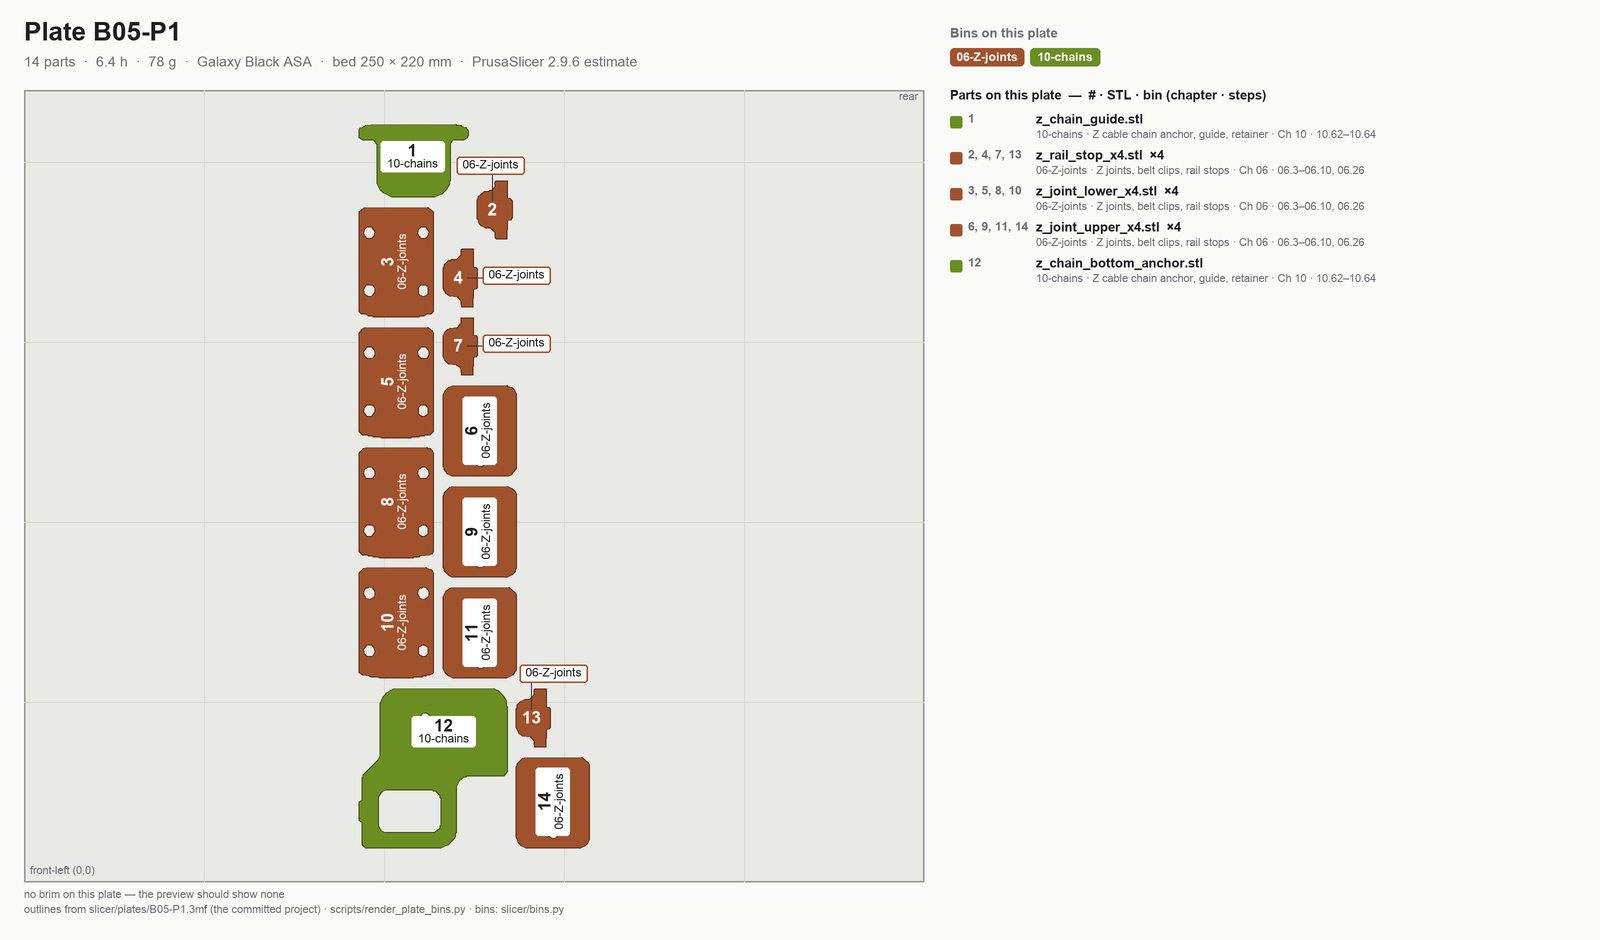
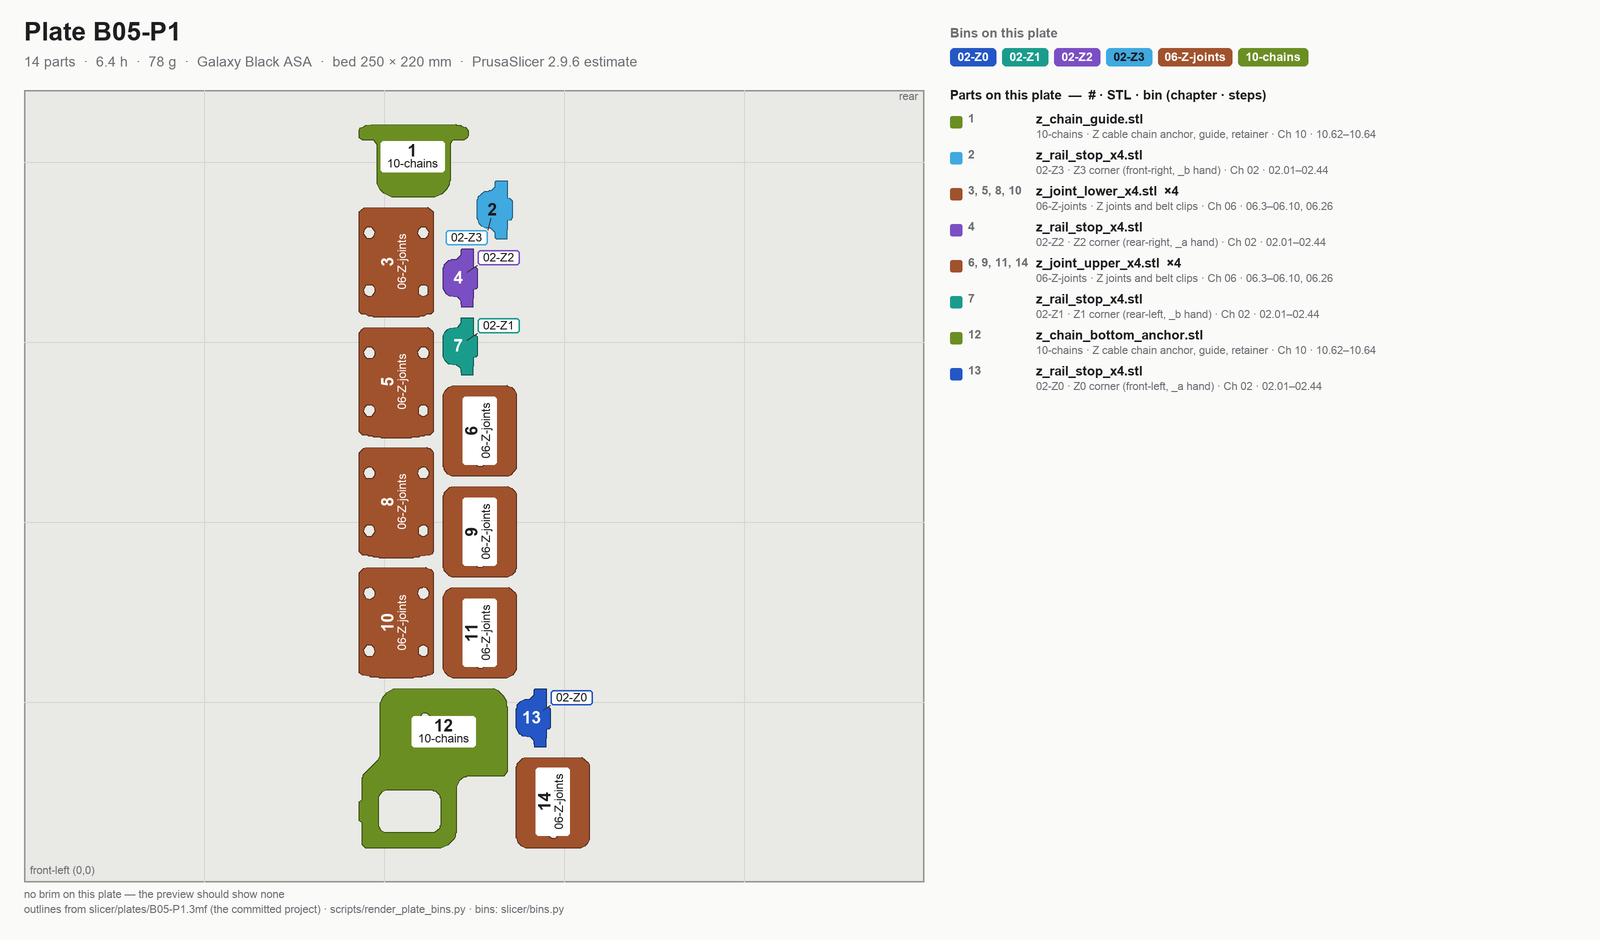
claude: rail stops sort into the four Z-corner bins; survey drops pulley_jig for the Z pulleys
z_rail_stop_x4 is fitted at 02.10, so one goes to each 02-Z corner bin (bins.py _ALL_Z) instead of
06-Z-joints; plate diagrams B02-P3/B05-P1, MANIFEST bin column, bin labels and the chapter/README/B05
tables regenerated or updated to match. Survey: Z pulleys are checked with a caliper at 33 mm;
pulley_jig gauges only the A/B motor pulleys.

Claude-Session: https://claude.ai/code/session_01WqzAPdcJW1PRJgg5HaHZHx

diff --git a/slicer/bins.py b/slicer/bins.py
@@ -37,7 +37,7 @@ BINS: dict[str, dict[str, str]] = {
     "04-A": dict(label="A drive unit + A (right) front idler", chapter="Ch 04", steps="04.1–04.24 (A idler 04.6–04.9, A drive 04.20–04.24)", colour="#2e8b57"),
     "04-B": dict(label="B drive unit + B (left) front idler", chapter="Ch 04", steps="04.1–04.33 (B idler 04.13–04.16, B drive 04.29–04.33)", colour="#8fbc4a"),
     "05-XY": dict(label="XY joints, cable bridge, endstop pod", chapter="Ch 05", steps="05.3, 05.25–05.38 (endstop pod fitted at 09.32–09.33)", colour="#c2185b"),
-    "06-Z-joints": dict(label="Z joints, belt clips, rail stops", chapter="Ch 06", steps="06.3–06.10, 06.26 (rail stops optional at 02.10)", colour="#a0522d"),
+    "06-Z-joints": dict(label="Z joints and belt clips", chapter="Ch 06", steps="06.3–06.10, 06.26", colour="#a0522d"),
     "07-X": dict(label="X carriage halves, probe bracket, cable cover", chapter="Ch 07", steps="07.6–07.39 (staged at 05.45; probe 07.35; cover 07.39)", colour="#cd853f"),
     "08-SB": dict(label="Stealthburner body, printhead, LEDs", chapter="Ch 08", steps="08.2–08.62 (printhead 08.28–08.30, LEDs 08.35–08.37, body 08.62)", colour="#d62839"),
     "08-CW2": dict(label="Clockwork 2 extruder + toolboard cover", chapter="Ch 08", steps="08.3–08.20 (cover 08.51)", colour="#f28482"),
@@ -134,7 +134,7 @@ ASSIGN: dict[str, str | list[str]] = {
     "z_joint_upper_x4.stl": "06-Z-joints",
     "z_chain_bottom_anchor.stl": "10-chains",
     "z_chain_guide.stl": "10-chains",
-    "z_rail_stop_x4.stl": "06-Z-joints",
+    "z_rail_stop_x4.stl": _ALL_Z,
     # B06
     "stealthburner_printhead_revo_voron_front.stl": "08-SB",
     "stealthburner_printhead_revo_voron_rear_cw2.stl": "08-SB",

diff --git a/docs/voron-build-instructions-survey.md b/docs/voron-build-instructions-survey.md
@@ -262,7 +262,7 @@ Pre-load or test-fit roll-in T-nuts — LDO warns extrusion/T-nut tolerances are
 4. **Heat-set inserts (153 of them) go in before assembly, not during.** A missed insert in an XY joint means a gantry teardown. Batch them per printed-part group, use the supplied brass tip with the tongue adjusted flush to the insert height, and practise on `STLs/Test_Prints/Heatset_Practice.stl` first.
 5. **Rails ship dry and must be cleaned and packed before installation** — the flip-and-pack method requires access to the back of the rail, i.e. *before* it goes on an extrusion. IPA soak 10 min, dry fully, pack NLGI 0/1 grease (Super Lube 21030) through a mounting hole until it oozes past the bearings, wipe the rail surface clean. Rail carriages slide off the ends easily and are ruined by a drop.
 6. **Use the second mounting hole from each end of every rail, never the end hole** (LDO note p.88). Also use the printed `MGN9_rail_guide_x2` / `MGN12_rail_guide_x2` jigs to centre rails on the extrusion.
-7. **Z pulleys: 16T on the Z motors, 20T elsewhere — they look nearly identical.** Threadlocker is pre-applied to the set screws; get orientation and stack height right the first time (`pulley_jig.stl`).
+7. **Z pulleys: 16T on the Z motors, 20T elsewhere — they look nearly identical.** Threadlocker is pre-applied to the set screws; get orientation and stack height right the first time (caliper at 33 mm on the Z shafts; `pulley_jig.stl` gauges only the A/B motor pulleys).
 8. **Mains wiring is the one step that can kill you.** Do LDO's *Checkpoint #1* with a multimeter, unplugged: continuity within each colour group, no continuity between L/N/PE, and confirm the PSU's 115/230 V selector **before** the first power-on. The SSR wiring is called out as *"critical — an incorrect connection can cause catastrophic damage"*; watch the numbered terminals and the yellow LED position.
 9. **Leviathan voltage-selection jumpers must be removed before installation** and only re-inserted after each attached component's voltage is verified. Mixing voltages on a shared 24 V supply "will permanently damage the controller and attached components."
 10. **Never unplug or re-plug a stepper with power on, and never hand-spin a connected stepper fast** — back-EMF kills drivers.
@@ -321,7 +321,7 @@ Reality check on the total: the low end (47.5 h) sits inside the community 40–
 | W9 | Rails installed before cleaning/greasing | Rails off again, or run them dry and wear them out | Rail prep is P00, explicitly before P02/P05 |
 | W10 | Rails mounted using the end holes (manual default) instead of the second holes | Rail off, re-position, re-align | LDO p.88 note is inlined at the step, not in an appendix |
 | W11 | Nevermore vs. stock exhaust decided after the back panel is sealed | Back panel off, different exhaust cover printed; 1 h + a reprint | Decide in P00 (it's Nevermore — the kit has no exhaust fan); print the matching exhaust cover in the same batch as the skirts |
-| W12 | Z-motor pulley set screws not threadlocked/seated before Z belting | Belt slip under load, re-belt all four; 1.5 h | Set-screw + `pulley_jig` verification step inside P02 |
+| W12 | Z-motor pulley set screws not threadlocked/seated before Z belting | Belt slip under load, re-belt all four; 1.5 h | Set-screw + caliper (33 mm) verification step inside P02 |
 | W13 | Wrong Klipper config loaded (Rev D vs Rev D+) at P12 | Mis-driven heater/probe/fans at P13; potentially a damaged component | P12 step 1: confirm the toolboard ID reads `stm32g0b1xx`; if it reads `rp2040` you have a V1 board and the *other* config |
 | W14 | `position_max` / QGL points left commented out for the 350 | Homing crashes into the frame at P13 | P12 config-edit checklist with the exact 350 values |
 
@@ -478,7 +478,7 @@ Each row is a chapter file. **Source** = what the writer transcribes from, with 
 |---|---|---|
 | 00 | Digital caliper 150 mm; machinist square 150 mm DIN 875/2; flat reference (the stone counter, verified); temperature-controlled soldering iron + LDO brass M3 tip; flush cutters; 2 mm drill bit (supplied) | IPA ≥90%; Super Lube 21030 (NLGI 0/1); nitrile gloves; lint-free cloth; masking tape + marker for labelling |
 | 01 | Ball-end hex 4 mm; machinist square; steel rule; flat reference; torque driver 0.5–3 N·m (optional) | — |
-| 02 | Hex 1.5/2/2.5/3/4 mm; soldering iron + insert tip; caliper (deck thickness gate); printed `MGN9_rail_guide`, `pulley_jig` | Loctite 243 (blue) for non-pre-applied set screws; grease |
+| 02 | Hex 1.5/2/2.5/3/4 mm; soldering iron + insert tip; caliper (deck thickness gate, Z pulley at 33 mm); printed `MGN9_rail_guide` | Loctite 243 (blue) for non-pre-applied set screws; grease |
 | 03 | Hex 2.5/3 mm; PH2 screwdriver; plastic scraper or card (magnet application); sharp knife (trim magnet holes) | IPA; the bed's protective film goes in the bin |
 | 04 | Hex 2/2.5/3/4 mm; printed assembly aid (from the manual); pulley jig | Loctite 243 |
 | 05 | Hex 2/2.5/3/4 mm; **T10 Torx** driver for backer FHCS (strongly preferred); rail guides; soldering iron (inserts) | Loctite 243 |

diff --git a/docs/manual/print/README.md b/docs/manual/print/README.md
@@ -108,15 +108,15 @@ each of its two corners, a `_x4` file one in each corner.
 | bin | label | chapter · steps | parts (qty) | from batches |
 |---|---|---|---|---|
 | **00-jigs** | Jigs and coupons | Ch 00 · 00.14–00.22 (rail guides again at 02.06, 05.11, 05.33; pulley jig at 04.24, 04.33; cube at 14.11) | `Voron_Design_Cube_v7`, `Heatset_Practice`, `MGN12_rail_guide` ×2, `MGN9_rail_guide` ×2, `pulley_jig` | B00 |
-| **02-Z0** | Z0 corner (front-left, `_a` hand) | Ch 02 · 02.01–02.44 (drive 02.17–02.38, idler 02.39–02.43) | `z_drive_retainer_a`, `z_drive_main_a`, `z_motor_mount_a`, `z_tensioner_bracket_a`, `[a]_z_drive_baseplate_a`, `[a]_belt_tensioner_a`, `[a]_z_tensioner_9mm` | B00, B01, B02 |
-| **02-Z1** | Z1 corner (rear-left, `_b` hand) | Ch 02 · 02.01–02.44 (drive 02.17–02.38, idler 02.39–02.43) | `z_drive_main_b`, `z_drive_retainer_b`, `z_motor_mount_b`, `z_tensioner_bracket_b`, `[a]_z_drive_baseplate_b`, `[a]_belt_tensioner_b`, `[a]_z_tensioner_9mm` | B01, B02 |
-| **02-Z2** | Z2 corner (rear-right, `_a` hand) | Ch 02 · 02.01–02.44 (drive 02.17–02.38, idler 02.39–02.43) | `z_drive_main_a`, `z_drive_retainer_a`, `z_motor_mount_a`, `z_tensioner_bracket_a`, `[a]_z_drive_baseplate_a`, `[a]_belt_tensioner_a`, `[a]_z_tensioner_9mm` | B01, B02 |
-| **02-Z3** | Z3 corner (front-right, `_b` hand) | Ch 02 · 02.01–02.44 (drive 02.17–02.38, idler 02.39–02.43) | `z_drive_main_b`, `z_drive_retainer_b`, `z_motor_mount_b`, `z_tensioner_bracket_b`, `[a]_z_drive_baseplate_b`, `[a]_belt_tensioner_b`, `[a]_z_tensioner_9mm` | B01, B02 |
+| **02-Z0** | Z0 corner (front-left, `_a` hand) | Ch 02 · 02.01–02.44 (drive 02.17–02.38, idler 02.39–02.43) | `z_drive_retainer_a`, `z_drive_main_a`, `z_motor_mount_a`, `z_tensioner_bracket_a`, `[a]_z_drive_baseplate_a`, `[a]_belt_tensioner_a`, `[a]_z_tensioner_9mm`, `z_rail_stop` | B00, B01, B02, B05 |
+| **02-Z1** | Z1 corner (rear-left, `_b` hand) | Ch 02 · 02.01–02.44 (drive 02.17–02.38, idler 02.39–02.43) | `z_drive_main_b`, `z_drive_retainer_b`, `z_motor_mount_b`, `z_tensioner_bracket_b`, `[a]_z_drive_baseplate_b`, `[a]_belt_tensioner_b`, `[a]_z_tensioner_9mm`, `z_rail_stop` | B01, B02, B05 |
+| **02-Z2** | Z2 corner (rear-right, `_a` hand) | Ch 02 · 02.01–02.44 (drive 02.17–02.38, idler 02.39–02.43) | `z_drive_main_a`, `z_drive_retainer_a`, `z_motor_mount_a`, `z_tensioner_bracket_a`, `[a]_z_drive_baseplate_a`, `[a]_belt_tensioner_a`, `[a]_z_tensioner_9mm`, `z_rail_stop` | B01, B02, B05 |
+| **02-Z3** | Z3 corner (front-right, `_b` hand) | Ch 02 · 02.01–02.44 (drive 02.17–02.38, idler 02.39–02.43) | `z_drive_main_b`, `z_drive_retainer_b`, `z_motor_mount_b`, `z_tensioner_bracket_b`, `[a]_z_drive_baseplate_b`, `[a]_belt_tensioner_b`, `[a]_z_tensioner_9mm`, `z_rail_stop` | B01, B02, B05 |
 | **02-deck** | Deck panel clips | Ch 02 · 02.11–02.15 (confirm thickness at 02.12) | `deck_support_3mm` ×8 | B01 |
 | **04-A** | A drive unit + A (right) front idler | Ch 04 · 04.1–04.24 (A idler 04.6–04.9, A drive 04.20–04.24) | `[a]_tensioner_right`, `a_drive_frame_lower`, `a_drive_frame_upper`, `front_idler_right_lower`, `front_idler_right_upper` | B02, B03 |
 | **04-B** | B drive unit + B (left) front idler | Ch 04 · 04.1–04.33 (B idler 04.13–04.16, B drive 04.29–04.33) | `[a]_tensioner_left`, `b_drive_frame_lower`, `b_drive_frame_upper`, `front_idler_left_lower`, `front_idler_left_upper` | B02, B03 |
 | **05-XY** | XY joints, cable bridge, endstop pod | Ch 05 · 05.3, 05.25–05.38 (endstop pod fitted at 09.32–09.33) | `[a]_endstop_pod_D2F_switch`, `[a]_xy_joint_cable_bridge_2hole`, `XY_cable_chain_bridge-Igus-3mm_backer`, `xy_joint_left_lower_MGN12`, `xy_joint_left_upper_MGN12`, `xy_joint_right_lower_MGN12`, `xy_joint_right_upper_MGN12` | B02, B04 |
-| **06-Z-joints** | Z joints, belt clips, rail stops | Ch 06 · 06.3–06.10, 06.26 (rail stops optional at 02.10) | `[a]_z_belt_clip_lower` ×4, `[a]_z_belt_clip_upper` ×4, `z_joint_lower` ×4, `z_joint_upper` ×4, `z_rail_stop` ×4 | B02, B05 |
+| **06-Z-joints** | Z joints and belt clips | Ch 06 · 06.3–06.10, 06.26 | `[a]_z_belt_clip_lower` ×4, `[a]_z_belt_clip_upper` ×4, `z_joint_lower` ×4, `z_joint_upper` ×4 | B02, B05 |
 | **07-X** | X carriage halves, probe bracket, cable cover | Ch 07 · 07.6–07.39 (staged at 05.45; probe 07.35; cover 07.39) | `[a]_cable_cover`, `x_frame_V2TR_MGN12_left`, `x_frame_V2TR_MGN12_right`, `probe_retainer_bracket` | B02, B04 |
 | **08-SB** | Stealthburner body, printhead, LEDs | Ch 08 · 08.2–08.62 (printhead 08.28–08.30, LEDs 08.35–08.37, body 08.62) | `[a]_stealthburner_main_body`, `stealthburner_printhead_revo_voron_front`, `stealthburner_printhead_revo_voron_rear_cw2`, `[o]_stealthburner_LED_carrier`, `[o]_stealthburner_LED_diffuser_mask` | B02, B06 |
 | **08-CW2** | Clockwork 2 extruder + toolboard cover | Ch 08 · 08.3–08.20 (cover 08.51) | `[a]_guidler_a`, `[a]_guidler_b`, `[a]_latch`, `[a]_latch_shuttle`, `main_body`, `motor_plate`, `cw2_captive_pcb_cover` | B02, B06 |

diff --git a/docs/print/bin-labels.md b/docs/print/bin-labels.md
@@ -39,8 +39,9 @@ _Ch 02 · 02.01–02.44 (drive 02.17–02.38, idler 02.39–02.43)_
 - `[a]_z_drive_baseplate_a` — B02-P1
 - `[a]_belt_tensioner_a` — B02-P3
 - `[a]_z_tensioner_9mm` — B02-P3
+- `z_rail_stop` — B05-P1 — optional (02.10 / 06.10)
 
-_7 pieces_
+_8 pieces_
 
 ![QR link to the chapter overview](assets/qr/bin-02-Z0.svg)
 
@@ -61,8 +62,9 @@ _Ch 02 · 02.01–02.44 (drive 02.17–02.38, idler 02.39–02.43)_
 - `[a]_z_drive_baseplate_b` — B02-P1
 - `[a]_belt_tensioner_b` — B02-P3
 - `[a]_z_tensioner_9mm` — B02-P3
+- `z_rail_stop` — B05-P1 — optional (02.10 / 06.10)
 
-_7 pieces_
+_8 pieces_
 
 ![QR link to the chapter overview](assets/qr/bin-02-Z1.svg)
 
@@ -83,8 +85,9 @@ _Ch 02 · 02.01–02.44 (drive 02.17–02.38, idler 02.39–02.43)_
 - `[a]_z_drive_baseplate_a` — B02-P1
 - `[a]_belt_tensioner_a` — B02-P3
 - `[a]_z_tensioner_9mm` — B02-P3
+- `z_rail_stop` — B05-P1 — optional (02.10 / 06.10)
 
-_7 pieces_
+_8 pieces_
 
 ![QR link to the chapter overview](assets/qr/bin-02-Z2.svg)
 
@@ -105,8 +108,9 @@ _Ch 02 · 02.01–02.44 (drive 02.17–02.38, idler 02.39–02.43)_
 - `[a]_z_drive_baseplate_b` — B02-P1
 - `[a]_belt_tensioner_b` — B02-P3
 - `[a]_z_tensioner_9mm` — B02-P3
+- `z_rail_stop` — B05-P1 — optional (02.10 / 06.10)
 
-_7 pieces_
+_8 pieces_
 
 ![QR link to the chapter overview](assets/qr/bin-02-Z3.svg)
 
@@ -192,9 +196,9 @@ _7 pieces_
 
 ### 06-Z-joints
 
-**Z joints, belt clips, rail stops**
+**Z joints and belt clips**
 
-_Ch 06 · 06.3–06.10, 06.26 (rail stops optional at 02.10)_
+_Ch 06 · 06.3–06.10, 06.26_
 
 **Should contain:**
 
@@ -202,9 +206,8 @@ _Ch 06 · 06.3–06.10, 06.26 (rail stops optional at 02.10)_
 - `[a]_z_belt_clip_upper` ×4 — B02-P3
 - `z_joint_lower` ×4 — B05-P1
 - `z_joint_upper` ×4 — B05-P1
-- `z_rail_stop` ×4 — B05-P1 — optional (02.10 / 06.10)
 
-_20 pieces_
+_16 pieces_
 
 ![QR link to the chapter overview](assets/qr/bin-06-Z-joints.svg)
 
@@ -584,15 +587,15 @@ _All bins on one page — which chapter opens each one, and what should be insid
 | bin | label | chapter · steps | pieces | from batches |
 |---|---|---|---:|---|
 | **00-jigs** | Jigs and coupons | Ch 00 · 00.14–00.22 (rail guides again at 02.06, 05.11, 05.33; pulley jig at 02.18, 04.24, 04.33; cube at 14.11) | 7 | B00 |
-| **02-Z0** | Z0 corner (front-left, `_a` hand) | Ch 02 · 02.01–02.44 (drive 02.17–02.38, idler 02.39–02.43) | 7 | B00, B01, B02 |
-| **02-Z1** | Z1 corner (rear-left, `_b` hand) | Ch 02 · 02.01–02.44 (drive 02.17–02.38, idler 02.39–02.43) | 7 | B01, B02 |
-| **02-Z2** | Z2 corner (rear-right, `_a` hand) | Ch 02 · 02.01–02.44 (drive 02.17–02.38, idler 02.39–02.43) | 7 | B01, B02 |
-| **02-Z3** | Z3 corner (front-right, `_b` hand) | Ch 02 · 02.01–02.44 (drive 02.17–02.38, idler 02.39–02.43) | 7 | B01, B02 |
+| **02-Z0** | Z0 corner (front-left, `_a` hand) | Ch 02 · 02.01–02.44 (drive 02.17–02.38, idler 02.39–02.43) | 8 | B00, B01, B02, B05 |
+| **02-Z1** | Z1 corner (rear-left, `_b` hand) | Ch 02 · 02.01–02.44 (drive 02.17–02.38, idler 02.39–02.43) | 8 | B01, B02, B05 |
+| **02-Z2** | Z2 corner (rear-right, `_a` hand) | Ch 02 · 02.01–02.44 (drive 02.17–02.38, idler 02.39–02.43) | 8 | B01, B02, B05 |
+| **02-Z3** | Z3 corner (front-right, `_b` hand) | Ch 02 · 02.01–02.44 (drive 02.17–02.38, idler 02.39–02.43) | 8 | B01, B02, B05 |
 | **02-deck** | Deck panel clips | Ch 02 · 02.11–02.15 (confirm thickness at 02.12) | 8 | B01 |
 | **04-A** | A drive unit + A (right) front idler | Ch 04 · 04.1–04.24 (A idler 04.6–04.9, A drive 04.20–04.24) | 5 | B02, B03 |
 | **04-B** | B drive unit + B (left) front idler | Ch 04 · 04.1–04.33 (B idler 04.13–04.16, B drive 04.29–04.33) | 5 | B02, B03 |
 | **05-XY** | XY joints, cable bridge, endstop pod | Ch 05 · 05.3, 05.25–05.38 (endstop pod fitted at 09.32–09.33) | 7 | B02, B04 |
-| **06-Z-joints** | Z joints, belt clips, rail stops | Ch 06 · 06.3–06.10, 06.26 (rail stops optional at 02.10) | 20 | B02, B05 |
+| **06-Z-joints** | Z joints and belt clips | Ch 06 · 06.3–06.10, 06.26 | 16 | B02, B05 |
 | **07-X** | X carriage halves, probe bracket, cable cover | Ch 07 · 07.6–07.39 (staged at 05.45; probe 07.35; cover 07.39) | 4 | B02, B04 |
 | **08-SB** | Stealthburner body, printhead, LEDs | Ch 08 · 08.2–08.62 (printhead 08.28–08.30, LEDs 08.35–08.37, body 08.62) | 5 | B02, B06 |
 | **08-CW2** | Clockwork 2 extruder + toolboard cover | Ch 08 · 08.3–08.20 (cover 08.51) | 7 | B02, B06 |

diff --git a/docs/manual/print/B05-z-joints-and-z-chain.md b/docs/manual/print/B05-z-joints-and-z-chain.md
@@ -21,7 +21,7 @@ the same assembly chapters; neither is a print prerequisite.
 | `z_joint_upper_x4.stl` | Voron-2 `STLs/Gantry/Z_Joints/` | 4 | Black | 6.6 | 06-Z-joints |
 | `z_chain_bottom_anchor.stl` | Voron-2 `STLs/Gantry/` | 1 | Black | 9.1 | 10-chains |
 | `z_chain_guide.stl` | Voron-2 `STLs/Gantry/` | 1 | Black | 6.0 | 10-chains |
-| `z_rail_stop_x4.stl` | LDOVoron2 `STLs/` | 4 | Black | 1.4 | 06-Z-joints |
+| `z_rail_stop_x4.stl` | LDOVoron2 `STLs/` | 4 | Black | 1.4 | 02-Z0–Z3, one each |
 
 Print **4× `z_joint_upper_x4`** and **zero** `z_joint_upper_hall_effect.stl` — that variant exists only for
 hall-effect XY endstops, which this kit does not use.
@@ -88,10 +88,14 @@ Source: [print plan §5.2 — checkpoint after each batch](../../voron-print-pla
 
 | bin | parts off this plate |
 |---|---|
-| **06-Z-joints** — Z joints, belt clips, rail stops | `z_joint_lower` ×4, `z_joint_upper` ×4, `z_rail_stop` ×4 |
+| **02-Z0** — Z0 corner (front-left, `_a` hand) | `z_rail_stop` |
+| **02-Z1** — Z1 corner (rear-left, `_b` hand) | `z_rail_stop` |
+| **02-Z2** — Z2 corner (rear-right, `_a` hand) | `z_rail_stop` |
+| **02-Z3** — Z3 corner (front-right, `_b` hand) | `z_rail_stop` |
+| **06-Z-joints** — Z joints and belt clips | `z_joint_lower` ×4, `z_joint_upper` ×4 |
 | **10-chains** — Z cable chain anchor, guide, retainer | `z_chain_bottom_anchor`, `z_chain_guide` |
 
-**Check:** 4 joint pairs and 4 rail stops in 06-Z-joints with B02's eight belt clips; anchor and guide in 10-chains.
+**Check:** one rail stop in each 02-Z corner bin; 4 joint pairs in 06-Z-joints with B02's eight belt clips; anchor and guide in 10-chains.
 
 **Helper:** Matches each part's number to the diagram legend and drops it in its bin.
 

diff --git a/docs/manual/06-z-axis-and-gantry-squaring.md b/docs/manual/06-z-axis-and-gantry-squaring.md
@@ -46,7 +46,7 @@ Parts arrive in the bins named below (see the bin map in print/README.md#bins); 
 | ![](assets/parts/z_chain_bottom_anchor.png){ width=96 } | `z_chain_bottom_anchor.stl` | 10-chains | Voron-2 `STLs/Gantry/` | 1 | Black | B05 — **fitted in Ch 10** (manual p.201–203) |
 | ![](assets/parts/z_chain_guide.png){ width=96 } | `z_chain_guide.stl` | 10-chains | Voron-2 `STLs/Gantry/` | 1 | Black | B05 — **fitted in Ch 10** (manual p.201–203) |
 | ![](assets/parts/%5Ba%5D_z_chain_retainer_bracket_x2.png){ width=96 } | `[a]_z_chain_retainer_bracket_x2.stl` | 10-chains | Voron-2 `STLs/Gantry/AB_Drive_Units/` | 2 | Blue | B02 — **fitted in Ch 10** (manual p.204) |
-| ![](assets/parts/z_rail_stop_x4.png){ width=96 } | `z_rail_stop_x4.stl` | 06-Z-joints | LDOVoron2 `STLs/` | 4 | Black | B05 — optional rail-end safety stop, fitted at Step 02.10 |
+| ![](assets/parts/z_rail_stop_x4.png){ width=96 } | `z_rail_stop_x4.stl` | 02-Z0 · 02-Z1 · 02-Z2 · 02-Z3 | LDOVoron2 `STLs/` | 4 | Black | B05 — optional rail-end safety stop, fitted at Step 02.10 |
 | — | `z_joint_upper_hall_effect.stl` | — | Voron-2 `STLs/Gantry/Z_Joints/` | **0** | — | **SKIP** per LDO — no hall-effect endstops in this kit, not printed |
 
 **Hardware** (chapter totals — Part A)

diff --git a/docs/manual/02-z-drives.md b/docs/manual/02-z-drives.md
@@ -55,7 +55,7 @@ Parts arrive in the bins named below (see the bin map in print/README.md#bins); 
 | ![](assets/parts/deck_support_3mm_x8.png){ width=96 } | `Panel_Mounting/deck_support_3mm_x8.stl` | 02-deck | 8 | Black — default (Rev D 350 BOM), see Step 02.12 |
 | *no render — same clip, slotted for a 4 mm panel* | `Panel_Mounting/deck_support_4mm_x8.stl` | — | 8 | Black — fallback if the panel measures 4 mm |
 | ![](assets/parts/MGN9_rail_guide_x2.png){ width=96 } | `Tools/MGN9_rail_guide_x2.stl` (jig, not consumed) | 00-jigs | 2 | Black |
-| ![](assets/parts/z_rail_stop_x4.png){ width=96 } | LDO `STLs/z_rail_stop_x4.stl` (optional) | 06-Z-joints | 4 | Black — batch **B05**, fitted at Step 02.10 |
+| ![](assets/parts/z_rail_stop_x4.png){ width=96 } | LDO `STLs/z_rail_stop_x4.stl` (optional) | 02-Z0 · 02-Z1 · 02-Z2 · 02-Z3 | 4 | Black — batch **B05**, fitted at Step 02.10 |
 
 The `_xN` suffix is the quantity you need, not the number of copies in the file — each STL contains one part. `_a` and `_b` are mirrored: two drives use the `a` set, two use the `b` set.
 

diff --git a/docs/print/plate-plans.md b/docs/print/plate-plans.md
@@ -108,7 +108,7 @@ All **22 plates** of the ASA run, **157.0 h**, **1813 g Galaxy Black + 279 g ASA
 
 ![Plate B05-P1 — sorting diagram](../manual/assets/plates/B05-P1.png)
 
-**B05-P1** · black · 14 parts · 6.4 h · 78 g · bins: 06-Z-joints, 10-chains · [Load step](../manual/print/B05-z-joints-and-z-chain.md#step-b052-load-plate-b05-p1)
+**B05-P1** · black · 14 parts · 6.4 h · 78 g · bins: 02-Z0, 02-Z1, 02-Z2, 02-Z3, 06-Z-joints, 10-chains · [Load step](../manual/print/B05-z-joints-and-z-chain.md#step-b052-load-plate-b05-p1)
 
 </div>
 
